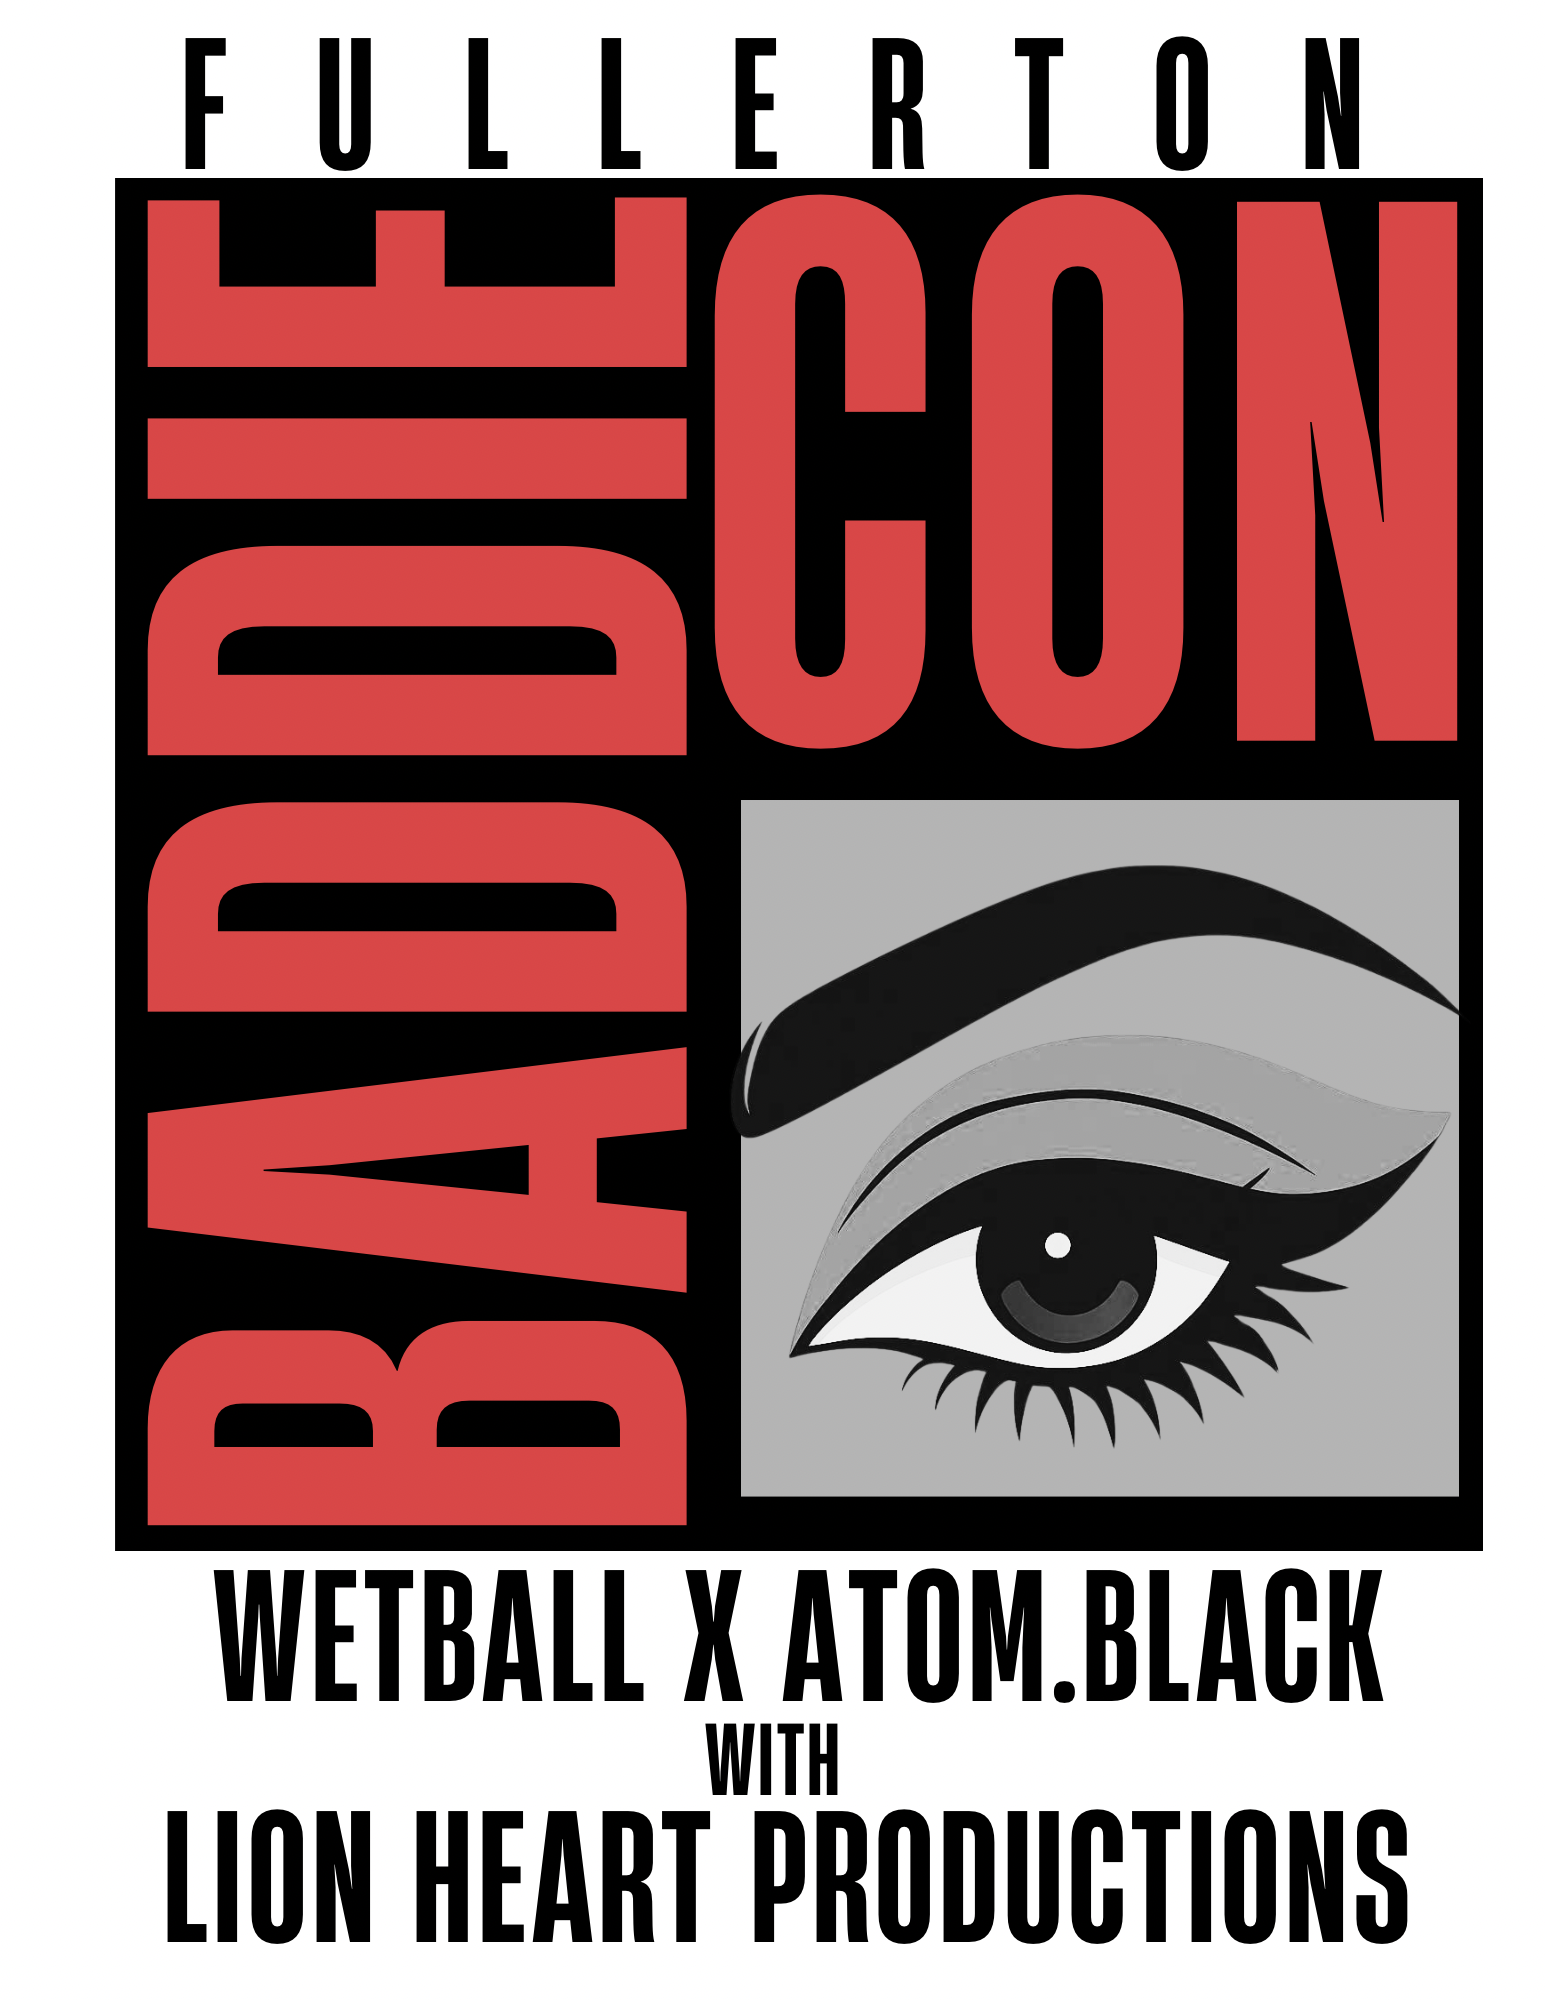
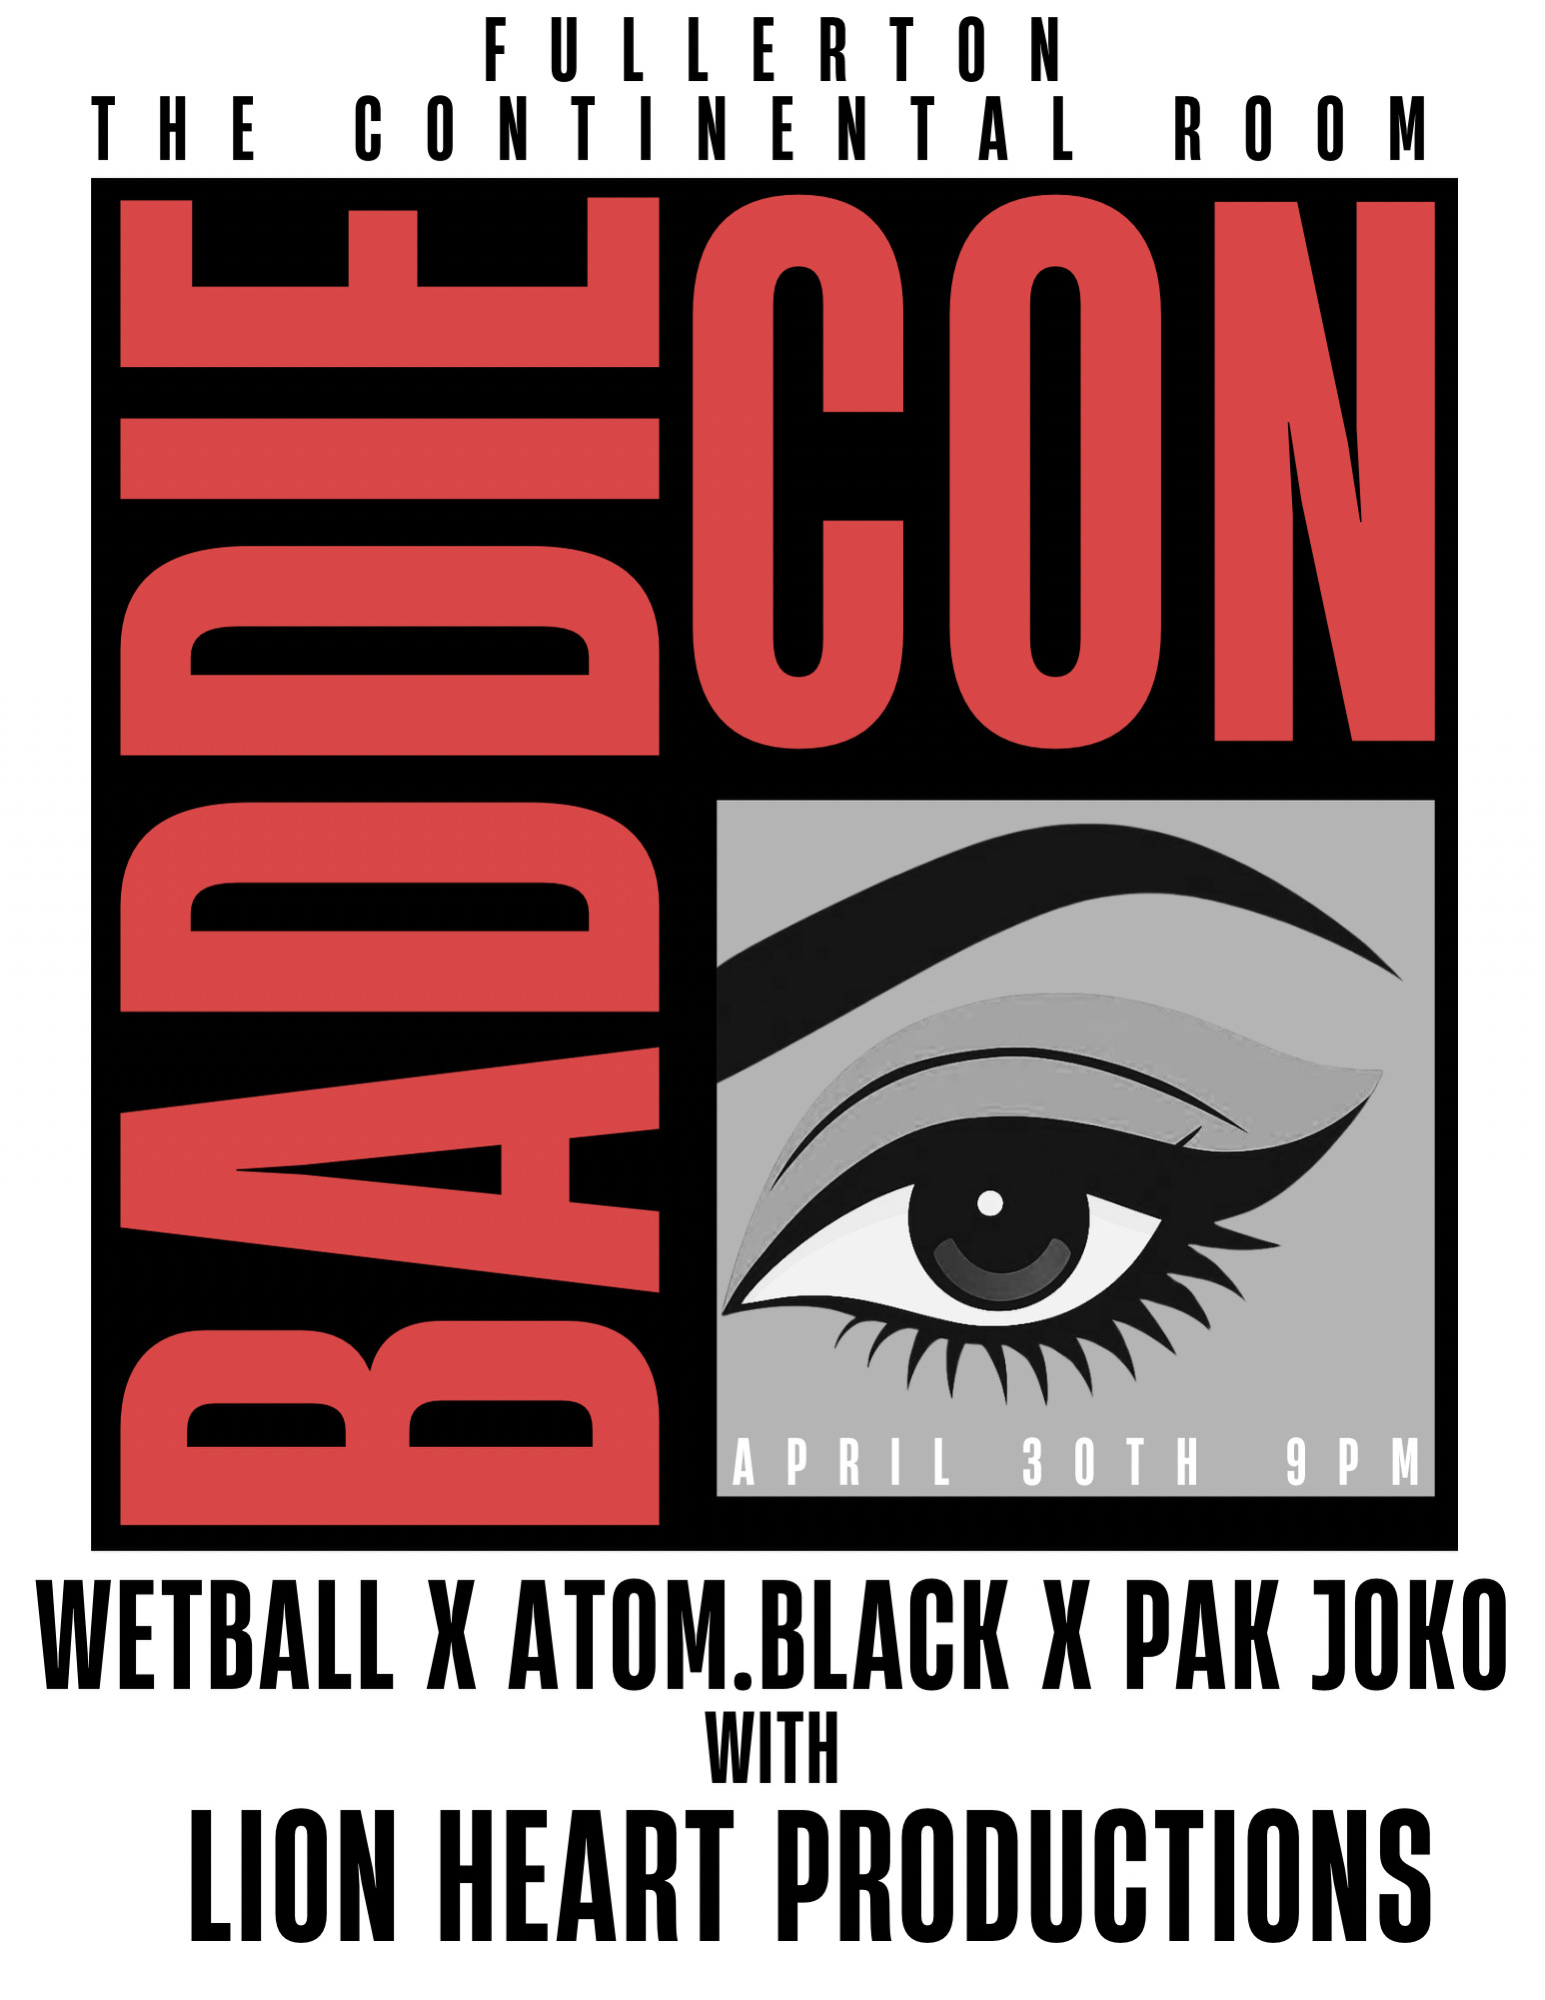
Update Baddie Con event: lineup, flier, and rsvp link
- Correct lineup roles: ndicaariel/venusbinz moved to DJs, Pak Joco added as host/artist, atom.black as special guest
- Replace poster image with updated flier
- Add rsvpUrl and specialGuests type to PastEventFallback

diff --git a/data/fallbacks.ts b/data/fallbacks.ts
@@ -300,7 +300,7 @@ export const manualArtistProfilesBySlug = manualProfiles.reduce<Record<string, M
   {}
 )
 
-export type LineupRole = 'hosts' | 'artists' | 'djs'
+export type LineupRole = 'hosts' | 'artists' | 'djs' | 'specialGuests'
 
 export interface PastEventFallback {
   slug: string
@@ -320,6 +320,7 @@ export interface PastEventFallback {
   videoHighlights?: { title: string; url: string; type?: 'video' | 'link' }[]
   attendees?: string[]
   attendeesCount?: number
+  rsvpUrl?: string
   lineupByRole?: Partial<Record<LineupRole, { name: string; slug: string }[]>>
 }
 
@@ -333,13 +334,24 @@ export const pastEventFallbacks: Record<string, PastEventFallback> = {
     description:
       'A collab night brought to you by Wetball909 × Atom Black with Lion Heart Productions. Come through for a night of raw energy, heavy sets, and good people.',
     instagramUrl: 'https://www.instagram.com/lion.heart.productions/',
+    rsvpUrl: 'https://partiful.com/e/uGCgVf7mCbhWNrth485s?',
     venueLink: 'https://www.instagram.com/thecontinentalroom/?hl=en',
     posterImage: { asset: { url: '/assets/images/baddie-con.png' } },
     lineupByRole: {
-      hosts: [{ name: 'Kat', slug: 'kat' }],
+      hosts: [
+        { name: 'Pak Joco', slug: 'pak-joco' },
+        { name: 'ndicaariel', slug: 'ndicaariel' },
+      ],
       artists: [
-        { name: 'Wetball909', slug: 'wetball909' },
-        { name: 'Atom Black', slug: 'atom-black' },
+        { name: 'Pak Joco', slug: 'pak-joco' },
+        { name: 'Wetball', slug: 'wetball' },
+      ],
+      djs: [
+        { name: 'ndicaariel', slug: 'ndicaariel' },
+        { name: 'venusbinz', slug: 'venusbinz' },
+      ],
+      specialGuests: [
+        { name: 'atom.black', slug: 'atom-black' },
       ],
     },
     gallery: [],

diff --git a/app/events/page.tsx b/app/events/page.tsx
@@ -1,6 +1,7 @@
 import { sanityClient } from '@/lib/sanity.client'
 import groq from 'groq'
 import Link from 'next/link'
+import Image from 'next/image'
 import {
   curatedImpactEventStats,
   pastEventFallbackList,
@@ -72,11 +73,13 @@ export default async function PastEventsPage() {
               >
                 <div className="grid sm:grid-cols-[auto_1fr] gap-0">
                   {event.posterImage?.asset?.url && (
-                    <div className="h-52 sm:h-auto sm:w-52 shrink-0 overflow-hidden">
-                      <img
+                    <div className="relative h-52 sm:h-auto sm:w-52 sm:min-h-[208px] shrink-0 overflow-hidden">
+                      <Image
                         src={event.posterImage.asset.url}
                         alt={event.title}
-                        className="h-full w-full object-cover transition group-hover:scale-105"
+                        fill
+                        className="object-cover transition group-hover:scale-105"
+                        sizes="(max-width: 640px) 100vw, 208px"
                       />
                     </div>
                   )}
